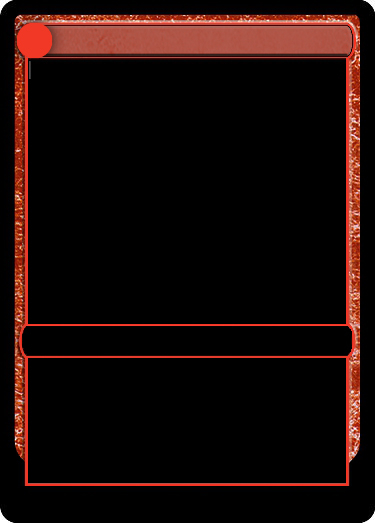
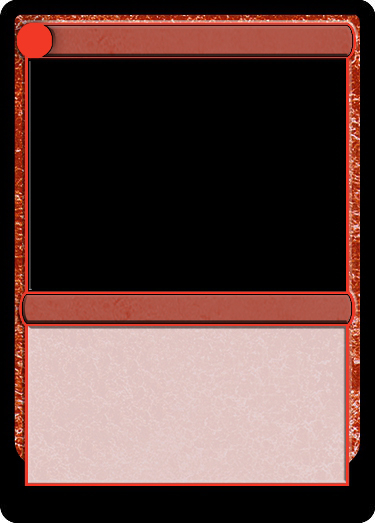
added dfc frames

diff --git a/modules/Magic/M15/MainFrame/main.js b/modules/Magic/M15/MainFrame/main.js
@@ -15,6 +15,8 @@ export default async function(card, utils) {
     }
 
     function getFrameFolder() {
+        if (card.id === 'front' && card.isTransform())
+            return 'notched';
         return card.isSnow() ? 'snow' : card.id;
     }
 
@@ -27,10 +29,10 @@ export default async function(card, utils) {
             await pipe.apply(card, backgrounds);
         }
         return makeStyles(backgrounds);
-    }
+    };
 
     Alpine.effect(async () => {
-        const canGenerate = allDefined(card.colorIdentity, card.superType, card.subType);
+        const canGenerate = allDefined(card.colorIdentity, card.superType, card.subType, card.rulesText);
         card.frameFolder = canGenerate ? getFrameFolder() : card.id;
         card.backgrounds = canGenerate ? await card.buildBackgrounds() : [];
     });
